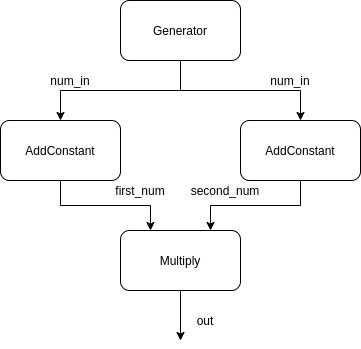
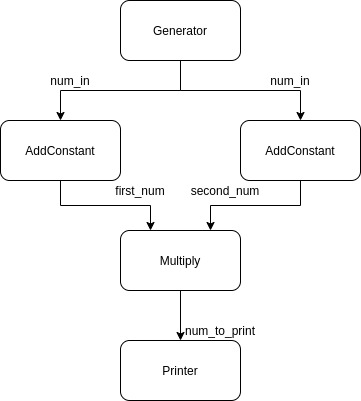
Update existing doc with new 0.2.0 syntax
Also clean up README.

diff --git a/docs/src/index.md b/docs/src/index.md
@@ -37,24 +37,24 @@ function process(c::MultiplyCalculator, first_num::Int, second_num::Int)::Int
     return first_num * second_num
 end
 
-@graph NumberGraph begin
-    # 1. Declare generator calculator
-    @generatorcalculator g = GeneratorCalculator()
+struct PrinterCalculator <: CalculatorBase end
 
-    # 2. Declare calculators
+function process(c::PrinterCalculator, num_to_print)
+    println(num_to_print)
+end
+
+@graph NumberGraph begin
+    # 1. Declare calculators.
+    @calculator generator = GeneratorCalculator()
     @calculator add0 = AddConstantCalculator(0)
     @calculator add42 = AddConstantCalculator(42)
     @calculator mult = MultiplyCalculator()
+    @calculator printer = PrinterCalculator()
 
-    # 3. Declare the streams that connect to the generator
-    @definputstream add0->num_in
-    @definputstream add42->num_in
-
-    # 4. Declare streams that connect calculators together
-    @defstreams add0 => mult->first_num
-    @defstreams add42 => mult->second_num
-
-    # 5. Declare the graph's output stream called "out", corresponding to `mult`'s output
-    @defoutputstream :out mult
+    # 2. Declare the streams which connect the calculators together
+    @bindstreams add0 num_in=generator
+    @bindstreams add42 num_in = generator
+    @bindstreams mult first_num=add0 second_num=add42
+    @bindstreams printer num_to_print=mult
 end
 ```

diff --git a/README.md b/README.md
@@ -1,17 +1,5 @@
 # Tissue.jl
 In Tissue.jl, computations to be done on an input stream are described by a directed-acyclic graph. Write how each node, called calculators, processes inputs into outputs, link these nodes together in a graph, and Tissue.jl takes care of running the whole thing, running each node in its own task. If each node is a biological cell, then a graph would be a tissue, wouldn't it?
 
-## Brainstorm
-+ Use of multiple dispatch
-    + Automatic resolving of `process()`
-        + Clean way to adapt a calculator to different graph topologies
-+ Parallel execution of calculators
-+ DSL for specifying graphs
-+ flow limiter
-+ Automatic Synchronization
-    + You always know the frame that you're processing
-    + Framework waits for all inputs to have arrived
-        + potentially: talk about throwing out old ones
-
-# History
+# Acknowledgements
 Tissue.jl is heavily inspired by [MediaPipe](https://arxiv.org/abs/1906.08172).
